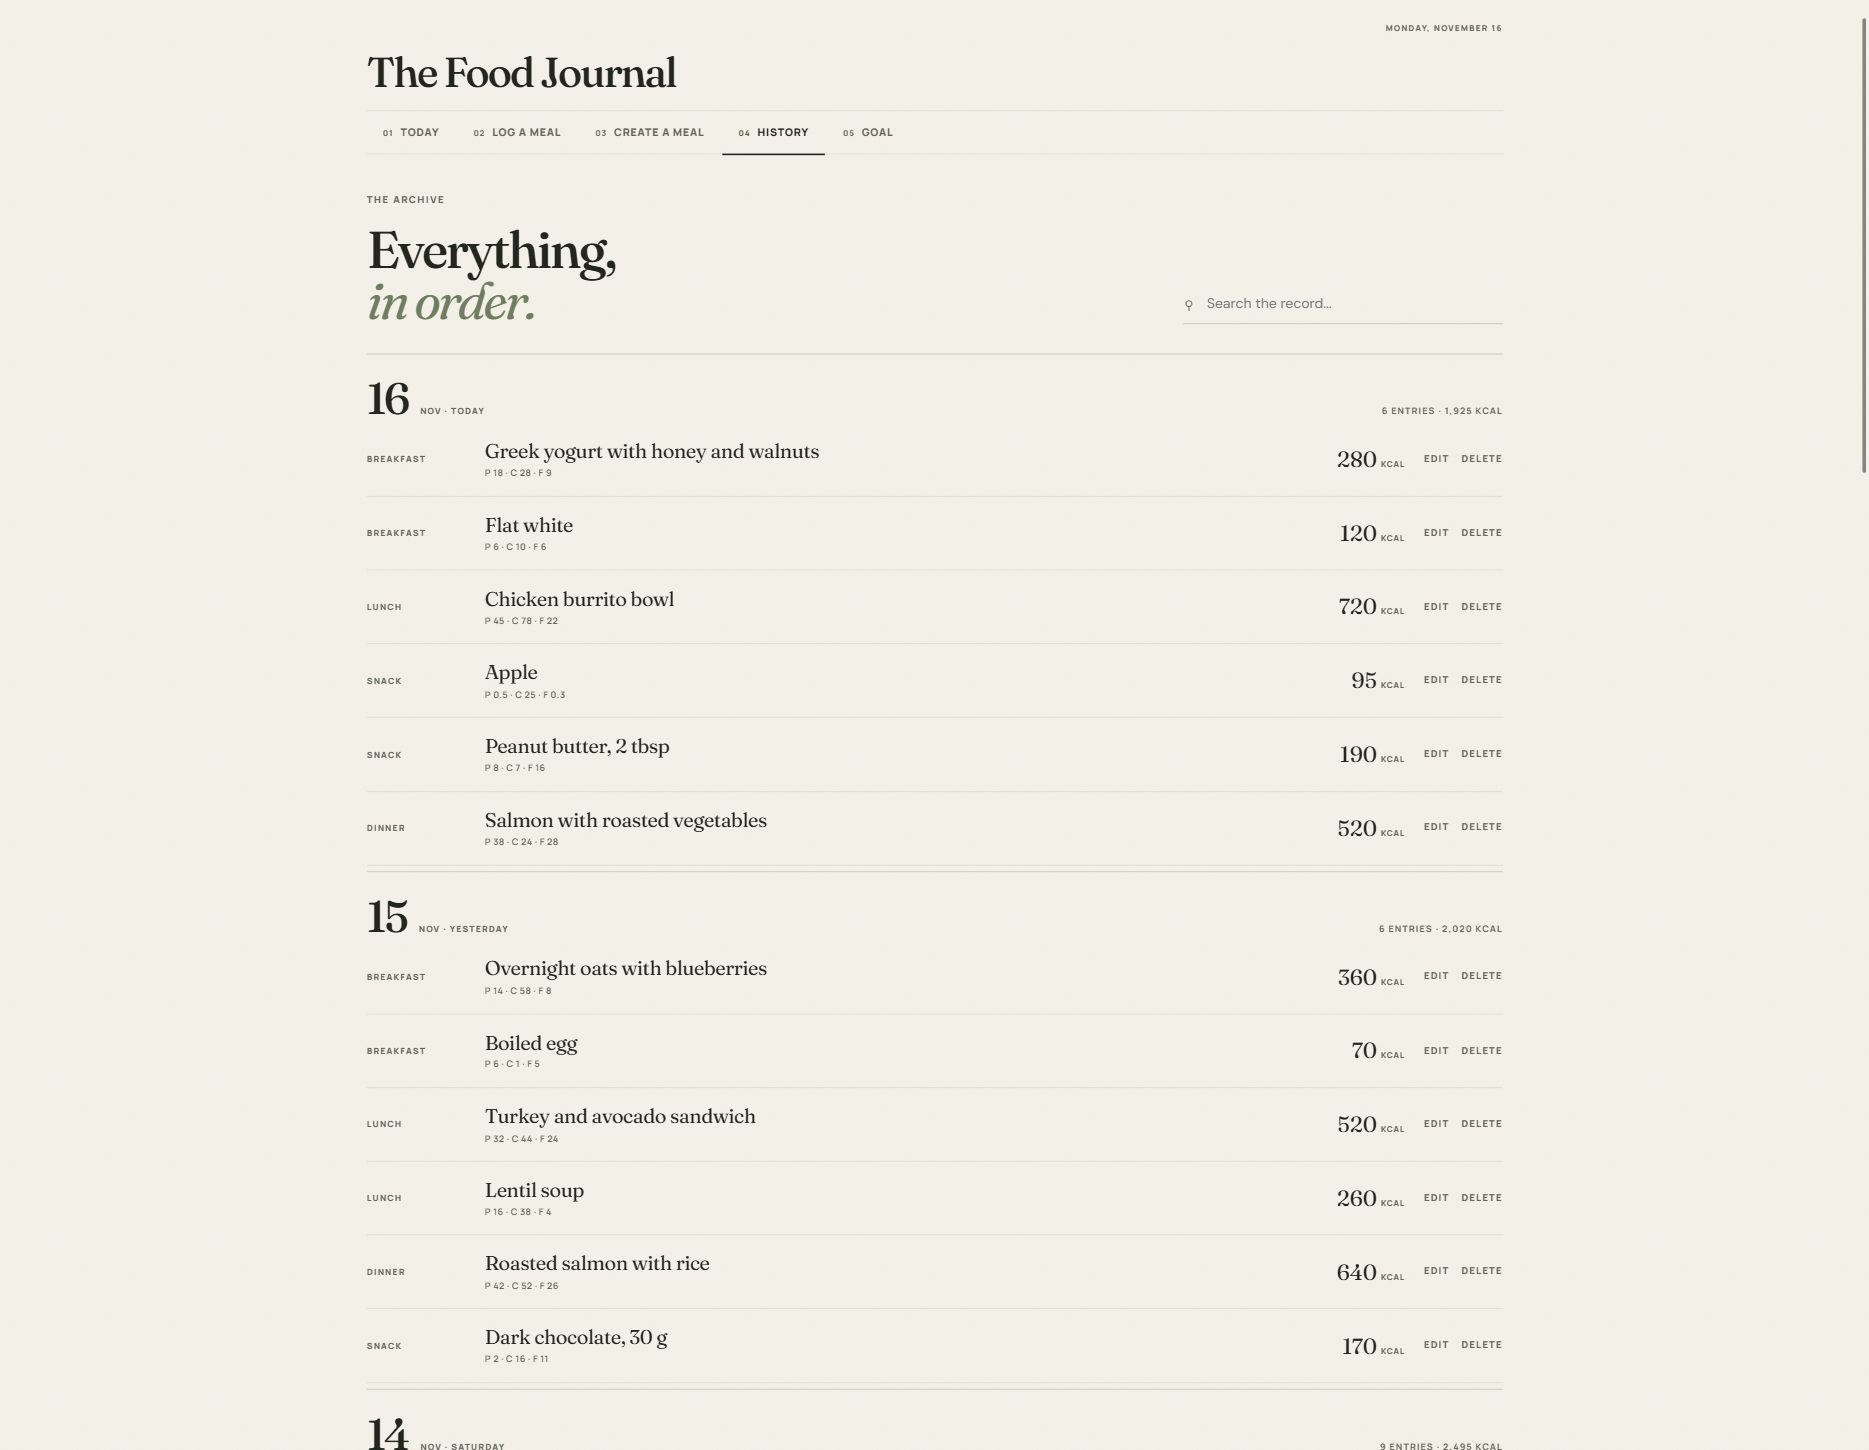
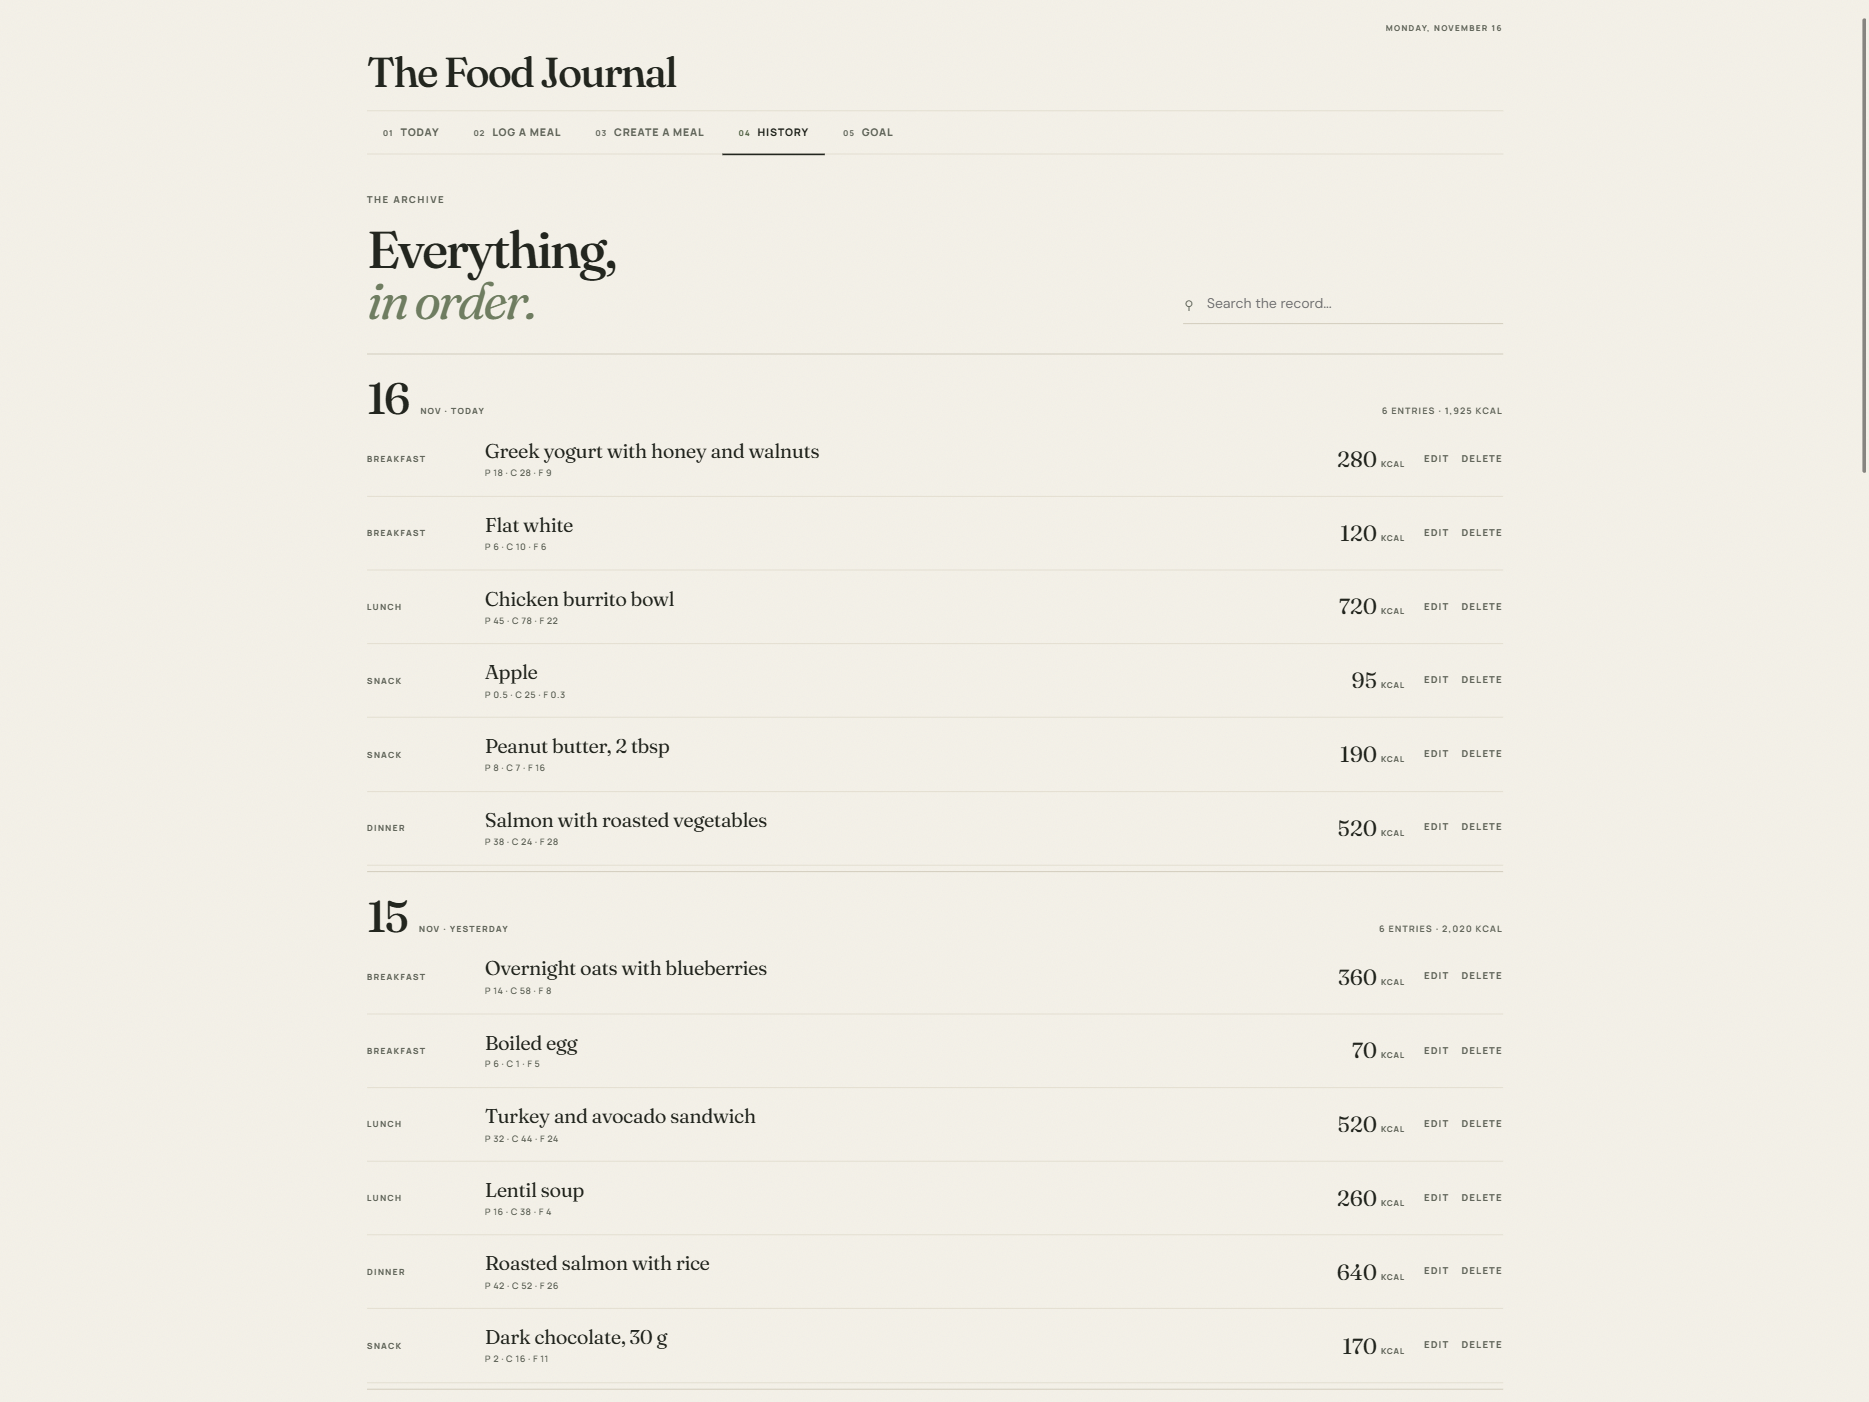
Add undo for deleted entries and animate the result card
Show a six-second undo bar after a delete, guard against double deletes, open and close the parsed result in one motion, and tidy the archive rules. Refresh the History screenshot.

diff --git a/web/js/food-journal.js b/web/js/food-journal.js
@@ -378,7 +378,15 @@ function resetParsedTotals(){
 function revealResult(sub, kicker='The plate'){
   document.getElementById('resultKicker').textContent=kicker;
   document.getElementById('resultSub').textContent=sub;
-  document.getElementById('parseResult').hidden=false;
+  const card=document.getElementById('parseResult');
+  const wasHidden=card.hidden;
+  /* A previous save left the card collapsed inline; it starts fresh here. */
+  card.removeAttribute('style');
+  if(card.parentElement) card.parentElement.removeAttribute('style');
+  card.hidden=false;
+  /* Open after the caller has painted the rows, so the measured height is the
+     real one, and before the first paint, so the card never flashes full size. */
+  if(wasHidden) requestAnimationFrame(()=>{ animateResult(true); });
 }
 
 function buildParsedRow(item, index){
@@ -585,6 +593,55 @@ function manualRow(){
   if(last) last.focus({preventScroll:true});
 }
 
+/* The plate opens and closes with one motion: 360ms on the archive row's
+   easing, the card's box and the grid gap above it moving together, content
+   fading in over the first third and out over the last third. Before this the
+   card popped open with a rise but folded shut, so the two ends disagreed.
+   The resting state is written inline because a finished-forwards animation
+   would still apply the next time the card is shown; revealResult clears it. */
+function animateResult(open){
+  const card=document.getElementById('parseResult');
+  const reduced=window.matchMedia('(prefers-reduced-motion: reduce)').matches;
+  if(!card || card.hidden || reduced) return Promise.resolve();
+  const parent=card.parentElement;
+  const gap=parent ? parseFloat(getComputedStyle(parent).rowGap)||0 : 0;
+  const cs=getComputedStyle(card);
+  const height=card.offsetHeight;
+  /* Without clipping, the card's children (the footer buttons) spill out of the
+     moving white surface and paint over the paper. `contain` keeps the rows
+     inside from also expanding the document's scrollable area while the card
+     shrinks, which is what made the page jump the last few pixels at the end. */
+  card.style.overflow='hidden';
+  card.style.contain='layout paint';
+  const timing=/** @type {KeyframeAnimationOptions} */ ({duration:360,easing:'cubic-bezier(.4,0,.2,1)',fill:'forwards'});
+  const shut={height:'0px',marginTop:'0px',paddingTop:'0px',paddingBottom:'0px',borderTopWidth:'0px',borderBottomWidth:'0px'};
+  const sized={height:height+'px',marginTop:cs.marginTop,paddingTop:cs.paddingTop,paddingBottom:cs.paddingBottom,borderTopWidth:cs.borderTopWidth,borderBottomWidth:cs.borderBottomWidth};
+  /* Height and fade are separate animations: folding opacity into the same
+     keyframe list would split the height's easing curve at the fade offset and
+     put a hitch partway through. */
+  const box=card.animate(open?[shut,sized]:[sized,shut],timing);
+  const fade=card.animate(open
+    ?[{opacity:0,offset:0},{opacity:1,offset:.35},{opacity:1,offset:1}]
+    :[{opacity:1,offset:0},{opacity:1,offset:.65},{opacity:0,offset:1}],
+    {duration:360,easing:'linear',fill:'forwards'});
+  const gapAnim=gap && parent
+    ?parent.animate(open?[{rowGap:'0px'},{rowGap:gap+'px'}]:[{rowGap:gap+'px'},{rowGap:'0px'}],timing)
+    :null;
+  return Promise.all([box.finished,fade.finished,gapAnim?gapAnim.finished:Promise.resolve()]).then(()=>{
+    box.cancel();
+    fade.cancel();
+    if(gapAnim) gapAnim.cancel();
+    if(open){
+      card.style.overflow='';
+      card.style.contain='';
+      if(parent) parent.style.rowGap='';
+    }else{
+      if(parent) parent.style.rowGap='0px';
+      card.style.cssText='height:0;margin:0;padding:0;border:0;opacity:0;overflow:hidden';
+    }
+  });
+}
+
 async function saveParsed(){
   if(parsedState.busy) return;
   if(parsedState.items.length===0){
@@ -633,6 +690,7 @@ async function saveParsed(){
   toast(editing
     ? `Updated ${entries.length} ${entries.length===1?'item':'items'} on ${dateStr}.`
     : `Saved ${entries.length} ${entries.length===1?'item':'items'} to ${meal} on ${dateStr}.`,'success');
+  await animateResult(false);
   clearParsed();
   render();
 }
@@ -770,9 +828,16 @@ function slideOutRow(row){
     });
 }
 
+/* A second click on a row already being deleted used to send a second DELETE;
+   by then the entry was gone, so the server answered "That entry is no longer
+   in the journal." and the page showed it as a failure. */
+const deletesInFlight=new Set();
+
 async function deleteEntry(id){
-  const entry=data.entries.find(e=>String(e.id)===String(id));
-  if(!entry) return;
+  const key=String(id);
+  const entry=data.entries.find(e=>String(e.id)===key);
+  if(!entry || deletesInFlight.has(key)) return;
+  deletesInFlight.add(key);
   const row=/** @type {HTMLElement | null} */ (document.querySelector(`#entryBody .a-row[data-id="${id}"]`));
   const exit=slideOutRow(row);
   try{
@@ -782,6 +847,8 @@ async function deleteEntry(id){
     /* The row may already be mid-exit; put it back. */
     render();
     return;
+  }finally{
+    deletesInFlight.delete(key);
   }
   offerUndo(entry);
   await exit;

diff --git a/web/css/food-journal/journal.css b/web/css/food-journal/journal.css
@@ -26,11 +26,16 @@
 .a-day__date strong { color: var(--ink); font-family: var(--serif); font-size: 44px; font-weight: 500; letter-spacing: -.05em; line-height: .8; }
 .a-day__date span { color: var(--muted); font-family: var(--sans); font-size: 8.5px; font-weight: 800; letter-spacing: .14em; text-transform: uppercase; }
 .a-day__total { color: var(--muted); font-family: var(--sans); font-size: 9px; font-weight: 700; letter-spacing: .12em; text-transform: uppercase; white-space: nowrap; }
-.a-empty-state { display: none; flex-direction: column; align-items: flex-start; gap: 10px; padding: 38px 0; border-bottom: 1px solid var(--line); }
+.a-empty-state { display: none; flex-direction: column; align-items: flex-start; gap: 10px; padding: 38px 0; }
 .a-empty-state.is-visible { display: flex; }
 .a-empty-state p { margin: 0; color: var(--muted); font-family: var(--serif); font-size: 17px; font-style: italic; }
 .a-empty-state .btn-line { margin-top: 4px; }
-.a-restore { margin-top: 34px; padding-top: 18px; border-top: 1px solid var(--line); }
+/* No border-top: the last day group already closes with a rule, and two
+   hairlines 34px apart read as a stray line. The margin is the separation. */
+.a-restore { margin-top: 14px; padding-top: 18px; }
+/* With no day group above (empty journal, or a search that matched nothing)
+   nothing else draws that rule, so the panel draws it. */
+.a-days:empty ~ .a-restore { border-top: 1px solid var(--line); }
 .a-restore summary { color: var(--muted); cursor: pointer; font-family: var(--sans); font-size: 9px; font-weight: 800; letter-spacing: .12em; text-transform: uppercase; }
 .a-restore[open] summary { color: var(--ink); }
 .a-restore__note { max-width: 560px; margin: 14px 0 0; color: var(--muted); font-family: var(--serif); font-size: 15px; font-style: italic; line-height: 1.55; }

diff --git a/web/css/food-journal/base.css b/web/css/food-journal/base.css
@@ -194,6 +194,43 @@ button:disabled { cursor: not-allowed; opacity: .7; }
 .toast.show { opacity: 1; transform: none; }
 .toast.error { background: var(--wine); }
 
+/* Undo — deletion is immediate, with six seconds to take it back */
+.undo {
+  position: fixed;
+  z-index: 121;
+  left: 24px;
+  bottom: 84px;
+  display: flex;
+  align-items: center;
+  gap: 14px;
+  max-width: 340px;
+  padding: 12px 14px 12px 18px;
+  overflow: hidden;
+  border-radius: 999px;
+  background: var(--ink);
+  color: #f4f1e8;
+  font-family: var(--sans);
+  font-size: 12px;
+  font-weight: 600;
+  line-height: 1.45;
+  box-shadow: 0 16px 38px rgba(25, 28, 22, .24);
+}
+.undo__text em { color: #f4f1e8; font-family: var(--serif); font-size: 13px; font-style: italic; }
+.undo .text-btn { color: #d9dfc8; border-bottom: 1px solid #7d8a6a; padding-bottom: 1px; }
+.undo .text-btn:hover { color: #fff; border-color: #fff; }
+.undo__timer {
+  position: absolute;
+  left: 0;
+  bottom: 0;
+  width: 100%;
+  height: 2px;
+  background: var(--sage);
+  transform: scaleX(1);
+  transform-origin: left;
+}
+.undo.is-running .undo__timer { animation: undo-drain 6s linear forwards; }
+@keyframes undo-drain { to { transform: scaleX(0); } }
+
 /* Plate studies — CSS-only food imagery */
 .plate {
   --rim: #333a2b;

diff --git a/web/css/food-journal/layout.css b/web/css/food-journal/layout.css
@@ -172,10 +172,8 @@
   align-items: center;
   padding: 16px 0;
   border-bottom: 1px solid var(--line);
-  transition: background .15s;
 }
 .a-row--plain { grid-template-columns: 100px minmax(0, 1fr) auto; }
-.a-row:hover { background: linear-gradient(90deg, rgba(255, 255, 255, .5), transparent); }
 .a-row__main { min-width: 0; }
 .a-row__meal { color: var(--muted); font-family: var(--sans); font-size: 8.5px; font-weight: 800; letter-spacing: .14em; text-transform: uppercase; }
 .a-row__name { display: block; color: var(--ink); font-family: var(--serif); font-size: 20px; letter-spacing: -.02em; line-height: 1.2; }

diff --git a/web/css/food-journal/responsive.css b/web/css/food-journal/responsive.css
@@ -152,6 +152,7 @@
   .suggest-help { left: auto; right: 0; width: min(250px, calc(100vw - 36px)); transform: translate(0, -3px); }
   .suggest-info-wrap:hover .suggest-help, .suggest-info-wrap:focus-within .suggest-help { transform: translate(0, 0); }
   .toast { left: 14px; right: 14px; bottom: 16px; max-width: none; text-align: center; }
+  .undo { left: 14px; right: 14px; bottom: 72px; max-width: none; justify-content: center; }
 }
 
 @media (prefers-reduced-motion: reduce) {

diff --git a/web/css/food-journal/compose.css b/web/css/food-journal/compose.css
@@ -63,7 +63,6 @@
   border-radius: var(--r-lg);
   background: var(--cream);
   box-shadow: var(--shadow-card);
-  animation: rise .5s cubic-bezier(.22, .61, .36, 1) both;
 }
 .a-result__head { display: flex; align-items: flex-start; justify-content: space-between; gap: 24px; }
 .a-result__title { max-width: none; margin: 9px 0 0; color: var(--ink); font-family: var(--serif); font-size: 30px; font-weight: 500; letter-spacing: -.03em; line-height: 1.1; }
